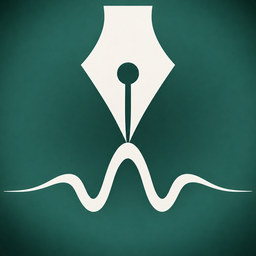
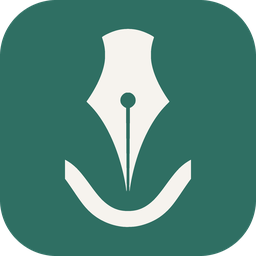
Lizenztor holt die Beschreibungen über Gradle; Symbol berichtigt; Zahlen nachgerechnet
DAS LIZENZTOR MACHTE DIE CI ROT -- AUS EINEM PFADFEHLER

Es durchsuchte ~/.gradle/caches/modules-2 nach Paketbeschreibungen. Auf
dem CI-Läufer liegt dort nichts Passendes, also fand es für alle 146
Abhängigkeiten keine Angabe und meldete sie als "ohne Lizenzangabe". Das
sah aus wie ein Lizenzproblem und war ein Ordnerfehler.

Jetzt kommen die Beschreibungen über Gradles eigene Auflösung
(ArtifactResolutionQuery). Wo der Zwischenspeicher liegt, weiß Gradle; wir
müssen es nicht wissen.

Nebenbei richtiger geworden: die alte Fassung nahm irgendeine .pom aus dem
Artefaktordner, unabhängig von der Fassung. Die Zählung verschiebt sich
dadurch leicht (131/5/5/4 statt 132/6/4/3) -- gleiche Lage, genauer
zugeordnet.

Dazu ein eigener Abbruch, wenn für mehr als die Hälfte keine Beschreibung
gefunden wird: "Das Tor konnte nicht prüfen". Ein Tor, das nicht prüfen
konnte, ist kein Befund, und es darf nicht klingen wie einer -- sonst
sucht jemand stundenlang an der falschen Stelle.

Gegenprobe am Werk: ein Eintrag aus lizenzen.txt entfernt, Tor schlägt an
und nennt beide betroffenen Teile; Eintrag zurück, Tor still.

SYMBOL: ES WAR DAS ALTE

Im README stand ein überholtes Zeichen -- Federspitze über einer
Wellenlinie, die bis an beide Bildränder durchläuft. Das aktuelle Zeichen
steht als Vektor in app/src/main/res/drawable/nb_zeichen_vordergrund.xml
und zeigt die Feder über einem frei endenden Bogen.

docs/bilder/symbol-256.png und marke/zeichen-aktuell-1024.png sind daraus
[…]

diff --git a/app/src/forschung/java/de/ithandwerkstuttgart/nibra/forschung/Verlaufsurteil.kt b/app/src/forschung/java/de/ithandwerkstuttgart/nibra/forschung/Verlaufsurteil.kt
@@ -53,7 +53,15 @@ object Verlaufsurteil {
         /** Der Boden steigt, aber die zweite Hälfte deutlich flacher. */
         PENDELT_SICH_EIN,
 
-        /** Der Boden steigt belegt und wird nicht flacher. */
+        /**
+         * Der Boden steigt belegt und wird nicht flacher.
+         *
+         * **Das heißt „anhaltendes Wachstum", nicht „Leck bewiesen".** Die
+         * Messung zeigt, dass je Sitzung etwas hängen bleibt. Sie zeigt
+         * nicht, was, und nicht warum. Wer das eine für das andere hält,
+         * sucht die Ursache dort, wo er sie vermutet, statt dort, wo sie
+         * ist.
+         */
         WAECHST_WEITER,
 
         /** Zu wenige Fenster für eine Aussage -- **nicht** „ruhig". */
@@ -172,7 +180,7 @@ object Verlaufsurteil {
                     )
             Art.WAECHST_WEITER ->
                 "**Boden steigt belegt weiter** ($zahlen; erste Hälfte " +
-                    "%.2f, zweite %.2f je Sitzung) -- Leck".format(
+                    "%.2f, zweite %.2f je Sitzung) -- anhaltendes Wachstum, ".format(
                         befund.steigungErsteHaelfte, befund.steigungZweiteHaelfte
                     )
             Art.UNBEKANNT ->

diff --git a/marke/README.md b/marke/README.md
@@ -22,20 +22,26 @@ the notice is missing, `./gradlew pruefeLizenzen` fails.
 
 | File | What it is |
 |---|---|
-| `icon_1024.png` | the master. Everything else derives from it |
+| `../app/src/main/res/drawable/nb_zeichen_vordergrund.xml` | **the master.** The shipped mark, as a vector, on `nb_zeichen_hintergrund.xml` (`#2F6F63`). This is what the phone shows |
+| `zeichen-aktuell-1024.png` | 1024×1024 raster of that master, rendered at the adaptive icon's visible area (72 of 108). Use this wherever a PNG is needed |
+| `../docs/bilder/symbol-256.png` | the same image at 256×256 with rounded corners, for the README |
+| `icon_1024.png` | **superseded draft.** Feather over a wavy line that runs into both edges — the horizontal stroke straight through the middle. Not the shipped mark. Kept for the record, do not derive from it |
 | `zeichen-vorschau.svg` / `.png` | the mark on its own, without the tile |
 | `entwuerfe/` | the three drafts A, B, C, the brief and the finding that led to the decision |
 
-`store/grafik/icon-1024.png` is a byte-identical copy for the store; the app
-icon sits in `app/src/main/res/mipmap-*/`. A third copy, `nibra-icon.png`,
-was removed — three files, one content, and no way to tell which one was
-meant.
+`store/grafik/icon-1024.png` is byte-identical to `icon_1024.png` and therefore
+carries the same superseded draft. It must be replaced with the current mark at
+the next store appearance. A third copy, `nibra-icon.png`, was removed —
+three files, one content, and no way to tell which one was meant.
 
 ## When the icon changes
 
-Change the master, then derive everything else. Not the other way round:
+Change the vector master, then derive everything else. Not the other way round:
 a store icon edited on its own drifts away from the app icon, and nobody
 notices until both sit next to each other on a phone.
+
+The PNGs here are renders of the vector, cropped to the visible 72/108 of the
+adaptive icon, so they show exactly what sits on the home screen.
 
 The icon is currently **frozen**. It changes at promotion, not before.
 

diff --git a/docs/messungen/MESSSYSTEM.md b/docs/messungen/MESSSYSTEM.md
@@ -289,9 +289,17 @@ Böden, die zeigt, dass sie „pendelt sich ein" gesagt hätte. Dazu eine
 Wurzelkurve, die als Einpendeln gelten muss, und Rauschen ohne Anstieg, das
 ruhig bleiben muss.
 
-**Was offen bleibt.** Der Speicher wächst weiterhin, rund 3,4 KB je Sitzung
-nach RSS. Die Ursache ist nicht untersucht. Der Fehler war die falsche
-Entwarnung, nicht das Wachstum.
+**Was offen bleibt.** Der Speicher wächst weiterhin, 3,37 KB je Sitzung nach
+RSS, rund 3,0 MB über 900 Sitzungen. Das ist reproduzierbares anhaltendes
+Wachstum mit **ungeklärter Ursache** — nicht „ein Leck ist bewiesen". Der
+Fehler war die falsche Entwarnung, nicht das Wachstum.
+
+**Nebenbefund zur Rechnung.** Steigung mal Sitzungszahl und Differenz
+zwischen erstem und letztem Boden ergeben nicht dasselbe: 2,96 MB gegen
+3,89 MB. Beide sind richtig gerechnet. Die erste stützt sich auf dreißig
+Punkte, die zweite auf zwei — und zwei Fensterminima tragen jedes ihr
+eigenes Rauschen. Es gilt die erste. Ein früherer Stand nannte „knapp 4 MB"
+und stützte sich damit auf die schwächere Zahl.
 
 ## Was daraus als Verfahren bleibt
 
